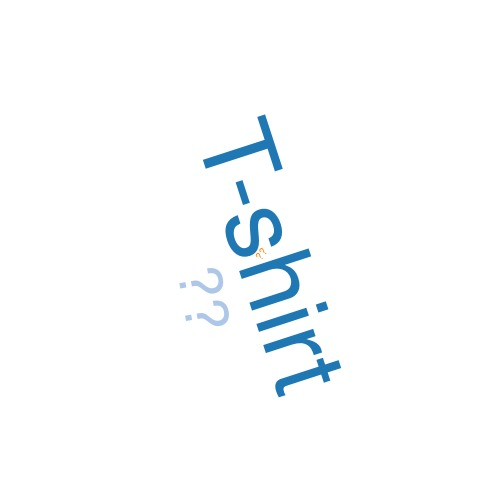
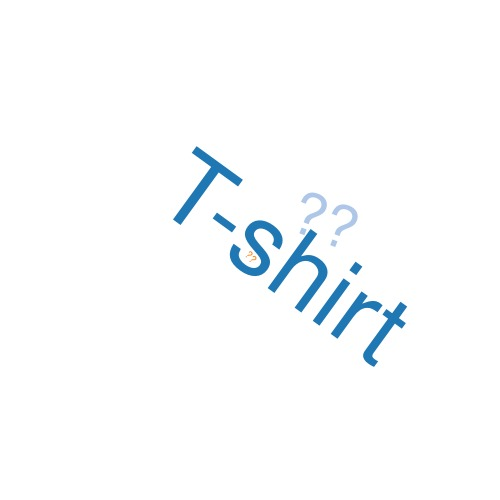
add jqcloud

Changed region(s): [[0.33, 0.21, 0.81, 0.81]]

diff --git a/app/assets/javascripts/application.js b/app/assets/javascripts/application.js
@@ -15,3 +15,4 @@
 //= require_tree .
 //= require jquery
 //= require bootstrap-sprockets
+//= require jqcloud

diff --git a/app/assets/stylesheets/application.scss b/app/assets/stylesheets/application.scss
@@ -14,3 +14,4 @@
 @import "bootstrap-sprockets";
 @import "bootstrap";
 @import "style";
+@import "jqcloud";
